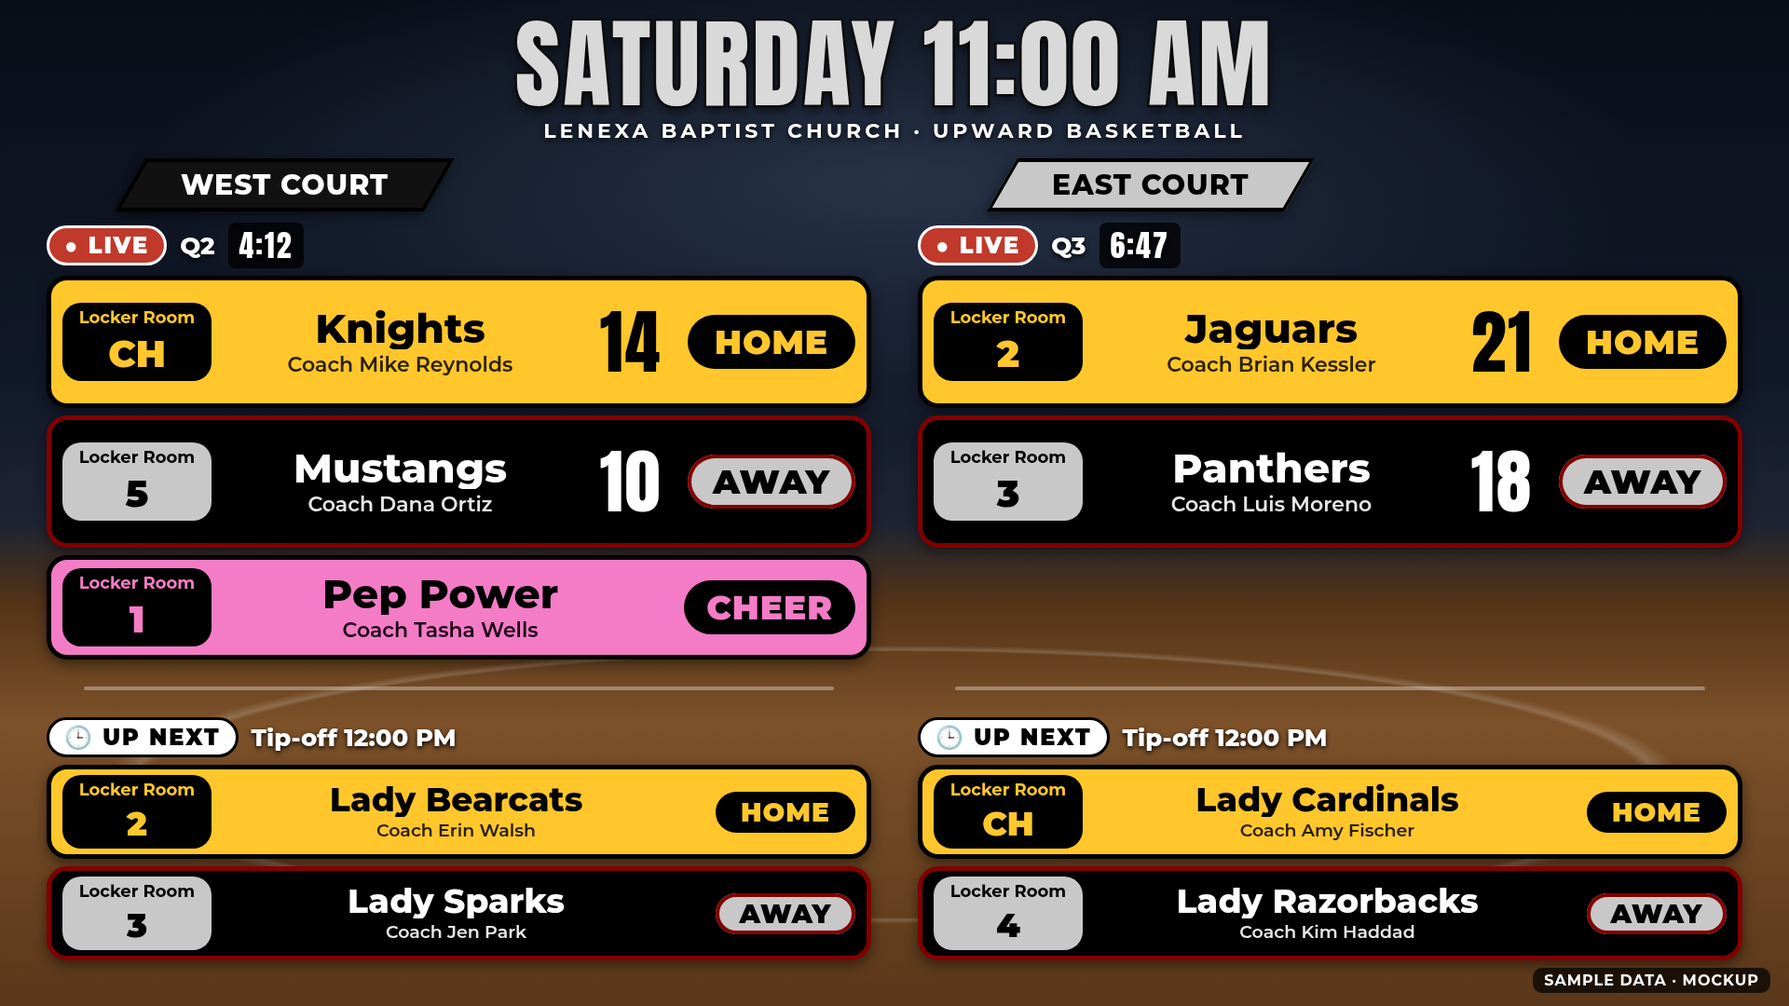
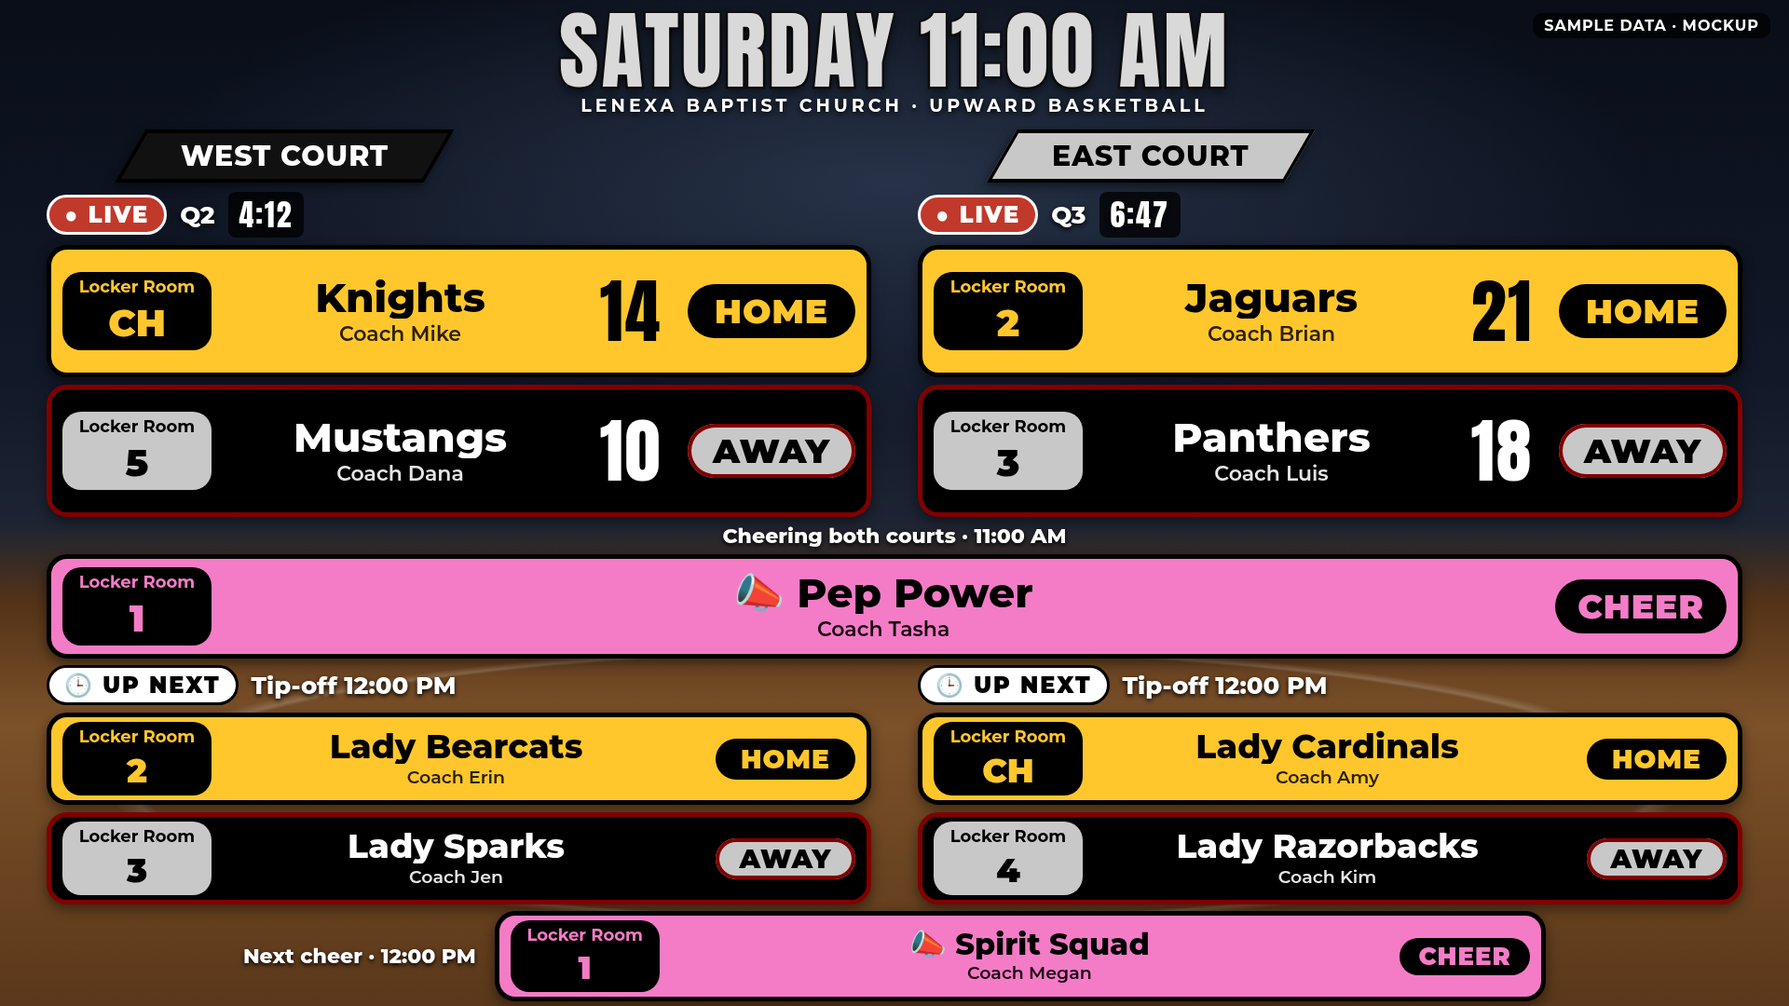
lobby-v2: cheer per time slot spanning both courts, first-name coaches, data-needs update

diff --git a/deliverables/mockups/lobby-v2/saturday-split.html b/deliverables/mockups/lobby-v2/saturday-split.html
@@ -1,23 +1,28 @@
 <!doctype html><html lang="en"><head><meta charset="utf-8"><title>Lobby v2 mockup · SATURDAY (SAMPLE DATA)</title>
 <link rel="stylesheet" href="lobby.css"></head><body>
-<!-- Static mockup, SAMPLE DATA (all names illustrative). Lenexa Baptist Church Upward Basketball 2026–27. Hooks per docs/plans/locker-rooms-coaches.md. -->
-<header><h1 data-bind="header">SATURDAY 11:00 AM</h1><div class="sub">LENEXA BAPTIST CHURCH · UPWARD BASKETBALL</div></header><main>
-<div class="court" data-court="west"><div class="tab"><span>WEST COURT</span></div>
-<section class="game live" data-slot="now" data-state="live"><div class="status"><span class="tag live">● LIVE</span><span class="when">Q2</span><span class="clock" data-bind="clock">4:12</span></div><div class="row home" data-row="home"><div class="locker" data-bind="locker"><small>Locker Room</small><b>CH</b></div>
-      <div class="who"><div class="name" data-bind="name">Knights</div><div class="coach" data-bind="coach">Coach Mike Reynolds</div></div><span class="score" data-bind="home-score">14</span><span class="side">HOME</span></div><div class="row away" data-row="away"><div class="locker" data-bind="locker"><small>Locker Room</small><b>5</b></div>
-      <div class="who"><div class="name" data-bind="name">Mustangs</div><div class="coach" data-bind="coach">Coach Dana Ortiz</div></div><span class="score" data-bind="away-score">10</span><span class="side">AWAY</span></div><div class="row cheer" data-row="cheer"><div class="locker" data-bind="locker"><small>Locker Room</small><b>1</b></div>
-      <div class="who"><div class="name" data-bind="name">Pep Power</div><div class="coach" data-bind="coach">Coach Tasha Wells</div></div><span></span><span class="side">CHEER</span></div></section>
-<div class="divider"></div>
-<section class="game next" data-slot="next" data-state="upcoming"><div class="status"><span class="tag next">🕒 UP NEXT</span><span class="when">Tip-off <span data-bind="time">12:00 PM</span></span></div><div class="row home" data-row="home"><div class="locker" data-bind="locker"><small>Locker Room</small><b>2</b></div>
-      <div class="who"><div class="name" data-bind="name">Lady Bearcats</div><div class="coach" data-bind="coach">Coach Erin Walsh</div></div><span></span><span class="side">HOME</span></div><div class="row away" data-row="away"><div class="locker" data-bind="locker"><small>Locker Room</small><b>3</b></div>
-      <div class="who"><div class="name" data-bind="name">Lady Sparks</div><div class="coach" data-bind="coach">Coach Jen Park</div></div><span></span><span class="side">AWAY</span></div></section>
+<!-- Static mockup, SAMPLE DATA (all names illustrative). Lenexa Baptist Church Upward Basketball 2026–27. Hooks per docs/plans/locker-rooms-coaches.md + data-needs.md. -->
+<header><h1 data-bind="header">SATURDAY 11:00 AM</h1><div class="sub">LENEXA BAPTIST CHURCH · UPWARD BASKETBALL</div></header><main class="split">
+<div class="band now">
+<div class="court" data-court="west"><div class="tab"><span>WEST COURT</span></div><section class="game live" data-slot="now" data-state="live"><div class="status"><span class="tag live">● LIVE</span><span class="when">Q2</span><span class="clock" data-bind="clock">4:12</span></div><div class="row home" data-row="home"><div class="locker" data-bind="locker"><small>Locker Room</small><b>CH</b></div>
+      <div class="who"><div class="name" data-bind="name">Knights</div><div class="coach" data-bind="coach">Coach Mike</div></div><span class="score" data-bind="home-score">14</span><span class="side">HOME</span></div><div class="row away" data-row="away"><div class="locker" data-bind="locker"><small>Locker Room</small><b>5</b></div>
+      <div class="who"><div class="name" data-bind="name">Mustangs</div><div class="coach" data-bind="coach">Coach Dana</div></div><span class="score" data-bind="away-score">10</span><span class="side">AWAY</span></div></section></div>
+<div class="court" data-court="east"><div class="tab"><span>EAST COURT</span></div><section class="game live" data-slot="now" data-state="live"><div class="status"><span class="tag live">● LIVE</span><span class="when">Q3</span><span class="clock" data-bind="clock">6:47</span></div><div class="row home" data-row="home"><div class="locker" data-bind="locker"><small>Locker Room</small><b>2</b></div>
+      <div class="who"><div class="name" data-bind="name">Jaguars</div><div class="coach" data-bind="coach">Coach Brian</div></div><span class="score" data-bind="home-score">21</span><span class="side">HOME</span></div><div class="row away" data-row="away"><div class="locker" data-bind="locker"><small>Locker Room</small><b>3</b></div>
+      <div class="who"><div class="name" data-bind="name">Panthers</div><div class="coach" data-bind="coach">Coach Luis</div></div><span class="score" data-bind="away-score">18</span><span class="side">AWAY</span></div></section></div>
 </div>
-<div class="court" data-court="east"><div class="tab"><span>EAST COURT</span></div>
-<section class="game live" data-slot="now" data-state="live"><div class="status"><span class="tag live">● LIVE</span><span class="when">Q3</span><span class="clock" data-bind="clock">6:47</span></div><div class="row home" data-row="home"><div class="locker" data-bind="locker"><small>Locker Room</small><b>2</b></div>
-      <div class="who"><div class="name" data-bind="name">Jaguars</div><div class="coach" data-bind="coach">Coach Brian Kessler</div></div><span class="score" data-bind="home-score">21</span><span class="side">HOME</span></div><div class="row away" data-row="away"><div class="locker" data-bind="locker"><small>Locker Room</small><b>3</b></div>
-      <div class="who"><div class="name" data-bind="name">Panthers</div><div class="coach" data-bind="coach">Coach Luis Moreno</div></div><span class="score" data-bind="away-score">18</span><span class="side">AWAY</span></div></section>
-<div class="divider"></div>
-<section class="game next" data-slot="next" data-state="upcoming"><div class="status"><span class="tag next">🕒 UP NEXT</span><span class="when">Tip-off <span data-bind="time">12:00 PM</span></span></div><div class="row home" data-row="home"><div class="locker" data-bind="locker"><small>Locker Room</small><b>CH</b></div>
-      <div class="who"><div class="name" data-bind="name">Lady Cardinals</div><div class="coach" data-bind="coach">Coach Amy Fischer</div></div><span></span><span class="side">HOME</span></div><div class="row away" data-row="away"><div class="locker" data-bind="locker"><small>Locker Room</small><b>4</b></div>
-      <div class="who"><div class="name" data-bind="name">Lady Razorbacks</div><div class="coach" data-bind="coach">Coach Kim Haddad</div></div><span></span><span class="side">AWAY</span></div></section>
-</div></main><div class="sample">SAMPLE DATA · MOCKUP</div></body></html>
+<section class="cheer-band now" data-court="both" data-slot="now"><div class="status"><span>Cheering both courts · 11:00 AM</span></div>
+<div class="row cheer span" data-row="cheer"><div class="locker" data-bind="locker"><small>Locker Room</small><b>1</b></div>
+      <div class="who"><div class="name" data-bind="name">Pep Power</div><div class="coach" data-bind="coach">Coach Tasha</div></div><span class="side">CHEER</span></div></section>
+
+<div class="band next">
+<div class="court" data-court="west"><section class="game next" data-slot="next" data-state="upcoming"><div class="status"><span class="tag next">🕒 UP NEXT</span><span class="when">Tip-off <span data-bind="time">12:00 PM</span></span></div><div class="row home" data-row="home"><div class="locker" data-bind="locker"><small>Locker Room</small><b>2</b></div>
+      <div class="who"><div class="name" data-bind="name">Lady Bearcats</div><div class="coach" data-bind="coach">Coach Erin</div></div><span></span><span class="side">HOME</span></div><div class="row away" data-row="away"><div class="locker" data-bind="locker"><small>Locker Room</small><b>3</b></div>
+      <div class="who"><div class="name" data-bind="name">Lady Sparks</div><div class="coach" data-bind="coach">Coach Jen</div></div><span></span><span class="side">AWAY</span></div></section></div>
+<div class="court" data-court="east"><section class="game next" data-slot="next" data-state="upcoming"><div class="status"><span class="tag next">🕒 UP NEXT</span><span class="when">Tip-off <span data-bind="time">12:00 PM</span></span></div><div class="row home" data-row="home"><div class="locker" data-bind="locker"><small>Locker Room</small><b>CH</b></div>
+      <div class="who"><div class="name" data-bind="name">Lady Cardinals</div><div class="coach" data-bind="coach">Coach Amy</div></div><span></span><span class="side">HOME</span></div><div class="row away" data-row="away"><div class="locker" data-bind="locker"><small>Locker Room</small><b>4</b></div>
+      <div class="who"><div class="name" data-bind="name">Lady Razorbacks</div><div class="coach" data-bind="coach">Coach Kim</div></div><span></span><span class="side">AWAY</span></div></section></div>
+</div>
+<section class="cheer-band next" data-court="both" data-slot="next"><div class="status"><span>Next cheer · 12:00 PM</span></div>
+<div class="row cheer span" data-row="cheer"><div class="locker" data-bind="locker"><small>Locker Room</small><b>1</b></div>
+      <div class="who"><div class="name" data-bind="name">Spirit Squad</div><div class="coach" data-bind="coach">Coach Megan</div></div><span class="side">CHEER</span></div></section>
+</main><div class="sample">SAMPLE DATA · MOCKUP</div></body></html>

diff --git a/deliverables/mockups/lobby-v2/friday-full.html b/deliverables/mockups/lobby-v2/friday-full.html
@@ -1,13 +1,10 @@
 <!doctype html><html lang="en"><head><meta charset="utf-8"><title>Lobby v2 mockup · FRIDAY (SAMPLE DATA)</title>
 <link rel="stylesheet" href="lobby.css"></head><body>
-<!-- Static mockup, SAMPLE DATA (all names illustrative). Lenexa Baptist Church Upward Basketball 2026–27. Hooks per docs/plans/locker-rooms-coaches.md. -->
+<!-- Static mockup, SAMPLE DATA (all names illustrative). Lenexa Baptist Church Upward Basketball 2026–27. Hooks per docs/plans/locker-rooms-coaches.md + data-needs.md. -->
 <header><h1 data-bind="header">FRIDAY 6:15 PM</h1><div class="sub">LENEXA BAPTIST CHURCH · UPWARD BASKETBALL</div></header><main class="full">
 <div class="court" data-court="full"><div class="tab"><span>FULL COURT</span></div>
-<div class="pair">
-<section class="game live" data-slot="now" data-state="live"><div class="status"><span class="tag live">● LIVE</span><span class="when">Q2</span><span class="clock" data-bind="clock">3:05</span></div><div class="row home" data-row="home"><div class="locker" data-bind="locker"><small>Locker Room</small><b>CH</b></div>
-      <div class="who"><div class="name" data-bind="name">Bulldogs</div><div class="coach" data-bind="coach">Coach Tom Albright</div></div><span class="score" data-bind="home-score">22</span><span class="side">HOME</span></div><div class="row away" data-row="away"><div class="locker" data-bind="locker"><small>Locker Room</small><b>5</b></div>
-      <div class="who"><div class="name" data-bind="name">Wildcats</div><div class="coach" data-bind="coach">Coach Ray Jennings</div></div><span class="score" data-bind="away-score">19</span><span class="side">AWAY</span></div></section>
-<section class="game next" data-slot="next" data-state="upcoming"><div class="status"><span class="tag next">🕒 UP NEXT</span><span class="when">Tip-off <span data-bind="time">7:15 PM</span></span></div><div class="row home" data-row="home"><div class="locker" data-bind="locker"><small>Locker Room</small><b>2</b></div>
-      <div class="who"><div class="name" data-bind="name">Bucks</div><div class="coach" data-bind="coach">Coach Paul Schmidt</div></div><span></span><span class="side">HOME</span></div><div class="row away" data-row="away"><div class="locker" data-bind="locker"><small>Locker Room</small><b>3</b></div>
-      <div class="who"><div class="name" data-bind="name">Warriors</div><div class="coach" data-bind="coach">Coach Andre Lewis</div></div><span></span><span class="side">AWAY</span></div></section>
-</div></div></main><div class="sample">SAMPLE DATA · MOCKUP</div></body></html>
+<div class="pair"><section class="game live" data-slot="now" data-state="live"><div class="status"><span class="tag live">● LIVE</span><span class="when">Q2</span><span class="clock" data-bind="clock">3:05</span></div><div class="row home" data-row="home"><div class="locker" data-bind="locker"><small>Locker Room</small><b>CH</b></div>
+      <div class="who"><div class="name" data-bind="name">Bulldogs</div><div class="coach" data-bind="coach">Coach Tom</div></div><span class="score" data-bind="home-score">22</span><span class="side">HOME</span></div><div class="row away" data-row="away"><div class="locker" data-bind="locker"><small>Locker Room</small><b>5</b></div>
+      <div class="who"><div class="name" data-bind="name">Wildcats</div><div class="coach" data-bind="coach">Coach Ray</div></div><span class="score" data-bind="away-score">19</span><span class="side">AWAY</span></div></section><section class="game next" data-slot="next" data-state="upcoming"><div class="status"><span class="tag next">🕒 UP NEXT</span><span class="when">Tip-off <span data-bind="time">7:15 PM</span></span></div><div class="row home" data-row="home"><div class="locker" data-bind="locker"><small>Locker Room</small><b>2</b></div>
+      <div class="who"><div class="name" data-bind="name">Bucks</div><div class="coach" data-bind="coach">Coach Paul</div></div><span></span><span class="side">HOME</span></div><div class="row away" data-row="away"><div class="locker" data-bind="locker"><small>Locker Room</small><b>3</b></div>
+      <div class="who"><div class="name" data-bind="name">Warriors</div><div class="coach" data-bind="coach">Coach Andre</div></div><span></span><span class="side">AWAY</span></div></section></div></div></main><div class="sample">SAMPLE DATA · MOCKUP</div></body></html>

diff --git a/deliverables/mockups/lobby-v2/lobby.css b/deliverables/mockups/lobby-v2/lobby.css
@@ -54,9 +54,9 @@ main.full { grid-template-columns: 1fr; padding: 2.4rem 18rem 0; }
 /* empty locker (data-empty): pill hidden but its column kept so names stay centered and rows aligned */
 .locker[data-empty] { visibility: hidden; }
 /* UP NEXT lines up across courts whether or not there's a squad: courts share rows via subgrid */
-main:not(.full) .court { display: grid; grid-row: span 4; grid-template-rows: subgrid; align-content: start; }  /* tab | now | divider | next rows shared across courts */
-main:not(.full) .game[data-slot="next"] { align-self: start; }
-main:not(.full) .game[data-slot="now"] { align-self: start; }
+main:not(.full):not(.split) .court { display: grid; grid-row: span 4; grid-template-rows: subgrid; align-content: start; }  /* tab | now | divider | next rows shared across courts */
+main:not(.full):not(.split) .game[data-slot="next"] { align-self: start; }
+main:not(.full):not(.split) .game[data-slot="now"] { align-self: start; }
 .who { min-width: 0; text-align: center; }
 .who .name { font: 800 4.4rem "Montserrat"; line-height: 1.05; white-space: nowrap; overflow: hidden; text-overflow: ellipsis; }
 .who .coach { margin-top: .3rem; font: 600 2.2rem "Montserrat"; opacity: 1; }
@@ -75,3 +75,32 @@ main:not(.full) .game[data-slot="now"] { align-self: start; }
 .divider { align-self: center; height: .4rem; background: rgba(255,255,255,.35); border-radius: .2rem; margin: .4rem 4rem; }
 /* Full Court: live and next side by side inside one spanning panel */
 .full .pair { display: grid; grid-template-columns: 1.15fr 1fr; gap: 4rem; align-items: start; }
+
+/* ---- Cheer per TIME SLOT (Aaron): one squad shared by West + East, spanning both courts ----
+   data-court="both" data-row="cheer" data-slot="now|next"; slots without a squad simply omit the row. */
+main.split { display: flex; flex-direction: column; gap: 1.2rem; padding: 1.4rem 5rem 0; }
+.band { display: grid; grid-template-columns: 1fr 1fr; gap: 5rem; align-items: start; }
+.band .court { display: flex; flex-direction: column; gap: 1rem; }
+.row.cheer.span { grid-template-columns: 16rem minmax(0,1fr) auto; margin: 0 auto; width: 100%; }
+.cheer-band { display: flex; flex-direction: column; gap: .6rem; }
+.cheer-band .status { justify-content: center; font-size: 2.2rem; }
+.cheer-band.next .row.cheer { min-height: 7.4rem; padding: .5rem 1.2rem; width: 70%; }
+.cheer-band.next .locker { min-height: 6.2rem; } .cheer-band.next .locker b { font-size: 3.4rem; }
+.cheer-band.next .who .name { font-size: 3.2rem; } .cheer-band.next .side { font-size: 2.6rem; min-width: 14rem; padding: .4rem 1.6rem; }
+.cheer-band.next .who .coach { font-size: 1.9rem; }
+.row.cheer.span .who .name::before { content: "📣 "; }
+/* split day fits 1080 with two cheer rows */
+main.split { gap: .9rem; }
+body:has(main.split) header h1 { font-size: 9.2rem; }
+body:has(main.split) header .sub { font-size: 1.9rem; margin-top: .2rem; }
+main.split .band.now .row { min-height: 9.4rem; }
+.cheer-band.next { flex-direction: row; align-items: center; justify-content: center; gap: 2rem; }
+.cheer-band.next .status { flex: none; }
+.cheer-band.next .row.cheer { width: 62%; margin: 0; min-height: 6.6rem; }
+.cheer-band.next .locker { min-height: 5.6rem; }
+body:has(main.split) header { padding-top: .8rem; }
+main.split .band.next .row { min-height: 7.4rem; padding: .5rem 1.2rem; }
+main.split .band.next .locker { min-height: 6.2rem; }
+main.split .cheer-band.now .row { min-height: 9rem; }
+.sample { bottom: auto; top: 1.4rem; }
+main.split { gap: .7rem; }

diff --git a/deliverables/mockups/lobby-v2/data-needs.md b/deliverables/mockups/lobby-v2/data-needs.md
@@ -1,11 +1,12 @@
 # Lobby v2 mockup: data needs (aligned with docs/plans/locker-rooms-coaches.md)
 
-Mockups: `saturday-split.html/.png` (West + East, live + next each; West live has a cheer squad, East doesn't),
-`friday-full.html/.png` (one Full Court panel: live + next, no cheer). Every locker pill has a sample value;
+Mockups: `saturday-split.html/.png` (West + East, live + next each, plus ONE spanning cheer row for the live slot and a
+smaller one for the next slot), `friday-full.html/.png` (one Full Court panel: live + next, no cheer). Every locker pill has a sample value;
 the empty-pill rule (`.locker[data-empty]` → hidden) is in `lobby.css` but not demoed.
 
-**Cheer rule:** cheer squads only appear on 2nd–4th grade Saturday split-court (West/East) games, at most one per game.
-Full Court (Friday) games never show a cheer row.
+**Cheer rule (Aaron, 2026-10-16):** cheer is ONE squad per TIME SLOT, shared by West and East (2nd–4th grade Saturday
+split-court slots only); some slots have none. Full Court (Friday) never shows cheer.
+**Coaches:** first name only on the TV ("Coach Mike").
 Shared style: `lobby.css`. All names are SAMPLE DATA.
 
 ## Fields the mockup uses → Devon's plan
@@ -14,17 +15,26 @@ Shared style: `lobby.css`. All names are SAMPLE DATA.
 | Header `SATURDAY 11:00 AM` | slot `scheduled_at` formatted in league TZ (`data-bind=header`) | yes (scheduled_at) |
 | Court panel / Full Court span | `courts.slug`, `conflicts_with`, lobby `span="full"` logic | slug + conflicts_with yes; lobby selection new |
 | Team name (home first) | `teams.name` (+ theme override), `short` | yes |
-| Team coach (line under name) | `teams.coach` | **new** |
+| Team coach (line under name, first name only: "Coach Mike") | `teams.coach` (store first name, or a `coach_display`) | **new** |
 | Team Locker Room pill | `games.home_locker`, `games.away_locker` (per game, ≤8 chars) | **new** |
 | LIVE + score + period + clock | game `status=active`, `history.present` scores/period/clock | yes |
 | UP NEXT + tip-off time | earliest `scheduled` game today per court (`data-bind=time`) | data yes; lobby `next` selection new |
-| Cheer squad name | `games.cheer` (one per game) | yes |
-| Cheer coach | `games.cheer_coach` | **new** |
-| Cheer Locker Room | `games.cheer_locker` | **new** |
-| Cheer court + game assignment | implied by the game row the cheer sits on | yes |
+| Cheer squad name (per time slot) | today `games.cheer` (per game) → see "Cheer model" | partly (per game) |
+| Cheer coach (first name) | plan: `games.cheer_coach` → per slot | **new** |
+| Cheer Locker Room | plan: `games.cheer_locker` → per slot | **new** |
+| Cheer slot assignment (date + time, both courts) | slot = league date + start time | **new** (today per game) |
+
+## Cheer model (per time slot) — options for Devon
+- **A. `cheer_slots` table (recommended):** `id, date, start_time, squad, coach, locker, logo_*`, unique `(date, start_time)`.
+  The lobby joins the slot of the live games (and of the next games) by league date + time; no duplication, and editing one
+  row fixes both courts. CSV: `cheer_slots.csv` with `date,time,squad,coach,locker` (match by date+time; blank clears).
+- **B. Keep it on games:** write the same cheer/coach/locker onto both West and East games in the slot (admin writes both;
+  import warns if the two disagree). Fewer schema changes, but two copies can drift; the lobby picks the West copy.
+- Either way the TV payload gets one `cheer` object per slot (`now`, `next`), not per court; the scorekeeper never gets it.
 
 ## Hooks used in the HTML
-`data-court=west|east|full`, `data-slot=now|next`, `data-row=home|away|cheer`, `data-state=live|upcoming`,
+`data-court=west|east|full`, `data-slot=now|next`, `data-row=home|away|cheer` (cheer row sits in a spanning
+`section.cheer-band[data-court="both"][data-slot=now|next]`, omitted when the slot has no squad), `data-state=live|upcoming`,
 `data-bind=header|name|coach|locker|time|clock|home-score|away-score`; empty locker → `.locker[data-empty]` (hidden,
 column kept so names stay centered). Coaches only in the lobby payload; never in `forRole('score')` (plan).
 
@@ -41,9 +51,11 @@ column kept so names stay centered). Coaches only in the lobby payload; never in
 - Status never color-only: "● LIVE" + red tag + score/clock; "🕒 UP NEXT" + "Tip-off 12:00 PM".
 - Fonts: header Anton (grey fill, black outline, like the slides' condensed caps); rows Montserrat 800/900
   (closest available to the slides' rounded sans). Court tabs are the slides' skewed parallelograms (West black, East grey).
-- UP NEXT rows line up across West/East whether or not a court has a cheer squad.
+- Cheer sits between the live and UP NEXT bands, spanning both courts ("Cheering both courts · 11:00 AM"); the next slot's
+  squad is a smaller spanning row at the bottom ("Next cheer · 12:00 PM"). West/East live and next rows stay aligned.
 
 ## Open questions for Aaron
-1. Multiple coaches per team (head + assistant)? Plan: one free-text field ("Smith / Jones"); the line fits ~30 chars.
+1. Multiple coaches per team (head + assistant)? With first names only, "Coach Mike & Dana" fits on the line.
 2. Default locker per team (`teams.default_locker`) to pre-fill each game, or always set per game?
-3. (from the plan) Is the cheer coach per squad (same coach every game) → `cheer_squads` table, or per-game text OK?
+3. Cheer model: `cheer_slots` table (A) vs. copies on both games (B)? Does a squad keep the same coach all season
+   (then a `cheer_squads` lookup could feed the slot)?
